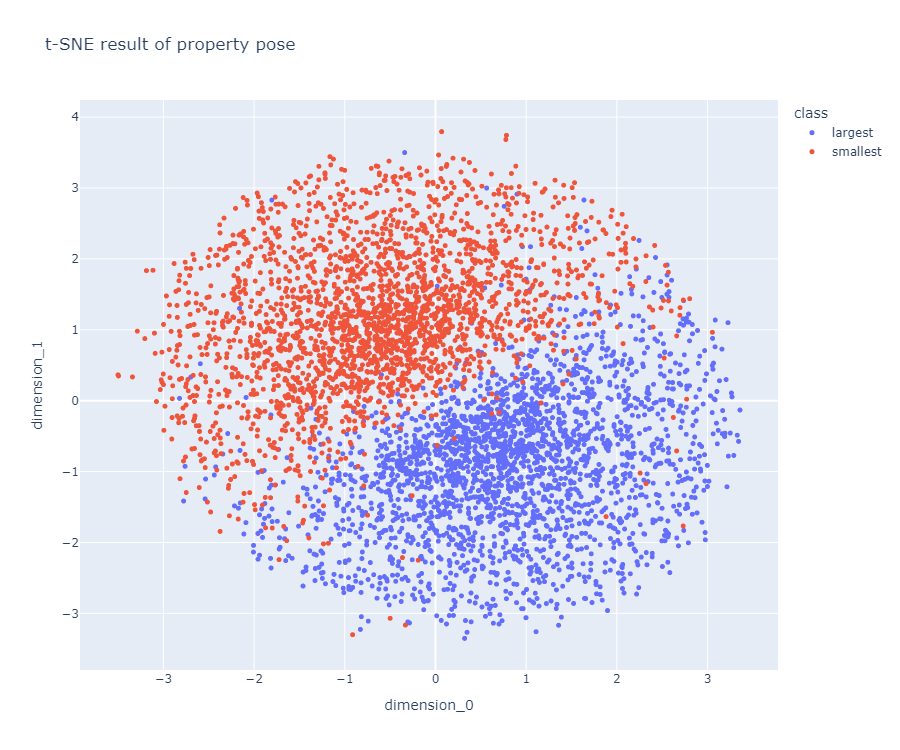
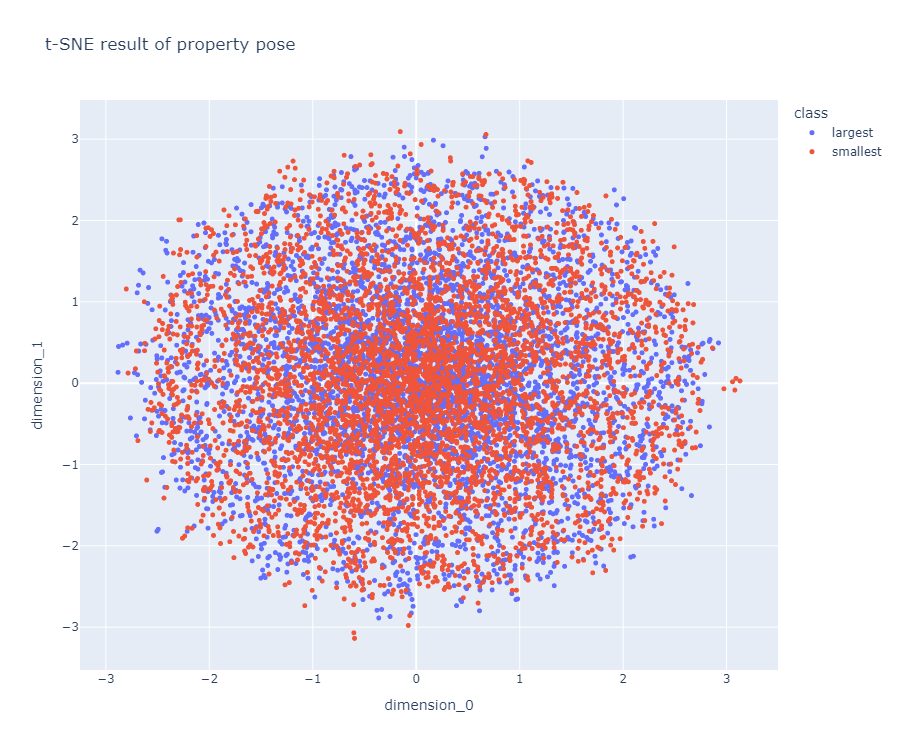
ADD: test result with 25K samples & top/bottom 5K

Changed region(s): [[0.1244, 0.184, 0.84, 0.8587], [0.0622, 0.7053, 0.0933, 0.736]]

diff --git a/2025_05_02_OhLoRA_v2/stylegan/stylegan_vectorfind_v6/run_vector_find.py b/2025_05_02_OhLoRA_v2/stylegan/stylegan_vectorfind_v6/run_vector_find.py
@@ -17,7 +17,7 @@ PROJECT_DIR_PATH = os.path.abspath(os.path.dirname(os.path.dirname(os.path.abspa
 ORIGINAL_HIDDEN_DIMS_Z = 512
 ORIGINALLY_PROPERTY_DIMS_Z = 3  # 원래 property (eyes, mouth, pose) 목적으로 사용된 dimension 값
 BATCH_SIZE = 20
-SVMS_PER_EACH_PROPERTY = 3      # also z-vector count for each property
+SVMS_PER_EACH_PROPERTY = 1      # also z-vector count for each property
 
 
 # Latent vector z 샘플링 및 해당 z 값으로 생성된 이미지에 대한 semantic score 계산
@@ -36,7 +36,7 @@ SVMS_PER_EACH_PROPERTY = 3      # also z-vector count for each property
 #                                    'mouth_cnn_score': list(float),
 #                                    'pose_cnn_score': list(float)}
 
-def sample_z_and_compute_property_scores(finetune_v1_generator, property_score_cnn, n=600000):
+def sample_z_and_compute_property_scores(finetune_v1_generator, property_score_cnn, n=25000):
     save_dir = f'{PROJECT_DIR_PATH}/stylegan/stylegan_vectorfind_v6/inference_test_during_training'
 
     z = np.random.normal(0, 1, size=(n, ORIGINAL_HIDDEN_DIMS_Z)).astype(np.float64)
@@ -102,7 +102,7 @@ def sample_z_and_compute_property_scores(finetune_v1_generator, property_score_c
 #                          'mouth_largest': list(int), 'mouth_smallest': list(int),
 #                          'pose_largest': list(int), 'pose_smallest': list(int)}
 
-def extract_best_and_worst_k_images(property_scores, k=2500):
+def extract_best_and_worst_k_images(property_scores, k=5000):
 
     # sort scores with index
     eyes_cnn_scores_with_idx = []

diff --git a/2025_05_02_OhLoRA_v2/stylegan/stylegan_vectorfind_v6/svm_train_report/svm_train_report.md b/2025_05_02_OhLoRA_v2/stylegan/stylegan_vectorfind_v6/svm_train_report/svm_train_report.md
@@ -1,3 +1,50 @@
+## 2025.05.07 09:40
+
+* total synthesized samples = **25,000**
+* use each property score top **5,000 (= 20.0%)** & bottom **5,000 (= 20.0%)** for SVM training
+
+```
+training SVM for eyes ...
+
+=== Support Vector Machine 0 for eyes ===
+accuracy          : 0.8420
+recall    (large) : 0.8610
+precision (large) : 0.8295
+F1 score  (large) : 0.8449
+recall    (small) : 0.8230
+precision (small) : 0.8555
+F1 score  (small) : 0.8389
+
+training SVM for mouth ...
+
+=== Support Vector Machine 0 for mouth ===
+accuracy          : 0.8165
+recall    (large) : 0.8150
+precision (large) : 0.8175
+F1 score  (large) : 0.8162
+recall    (small) : 0.8180
+precision (small) : 0.8156
+F1 score  (small) : 0.8168
+
+training SVM for pose ...
+
+=== Support Vector Machine 0 for pose ===
+accuracy          : 0.8265
+recall    (large) : 0.8110
+precision (large) : 0.8369
+F1 score  (large) : 0.8238
+recall    (small) : 0.8420
+precision (small) : 0.8167
+F1 score  (small) : 0.8291
+```
+
+**Generated Images**
+
+* 한 행의 12장 중 왼쪽 4장은 ```eyes```, 가운데 4장은 ```mouth```, 오른쪽 4장은 ```pose``` 속성을 변동시킴
+* 아래와 같이 **어느 정도 의도대로 잘 나오는** 조합이 **6 / 50 개 (12 %)**
+
+![image](../../../../images/250502_8.PNG)
+
 ## 2025.05.07 07:00
 
 * total synthesized samples = **600,000**
